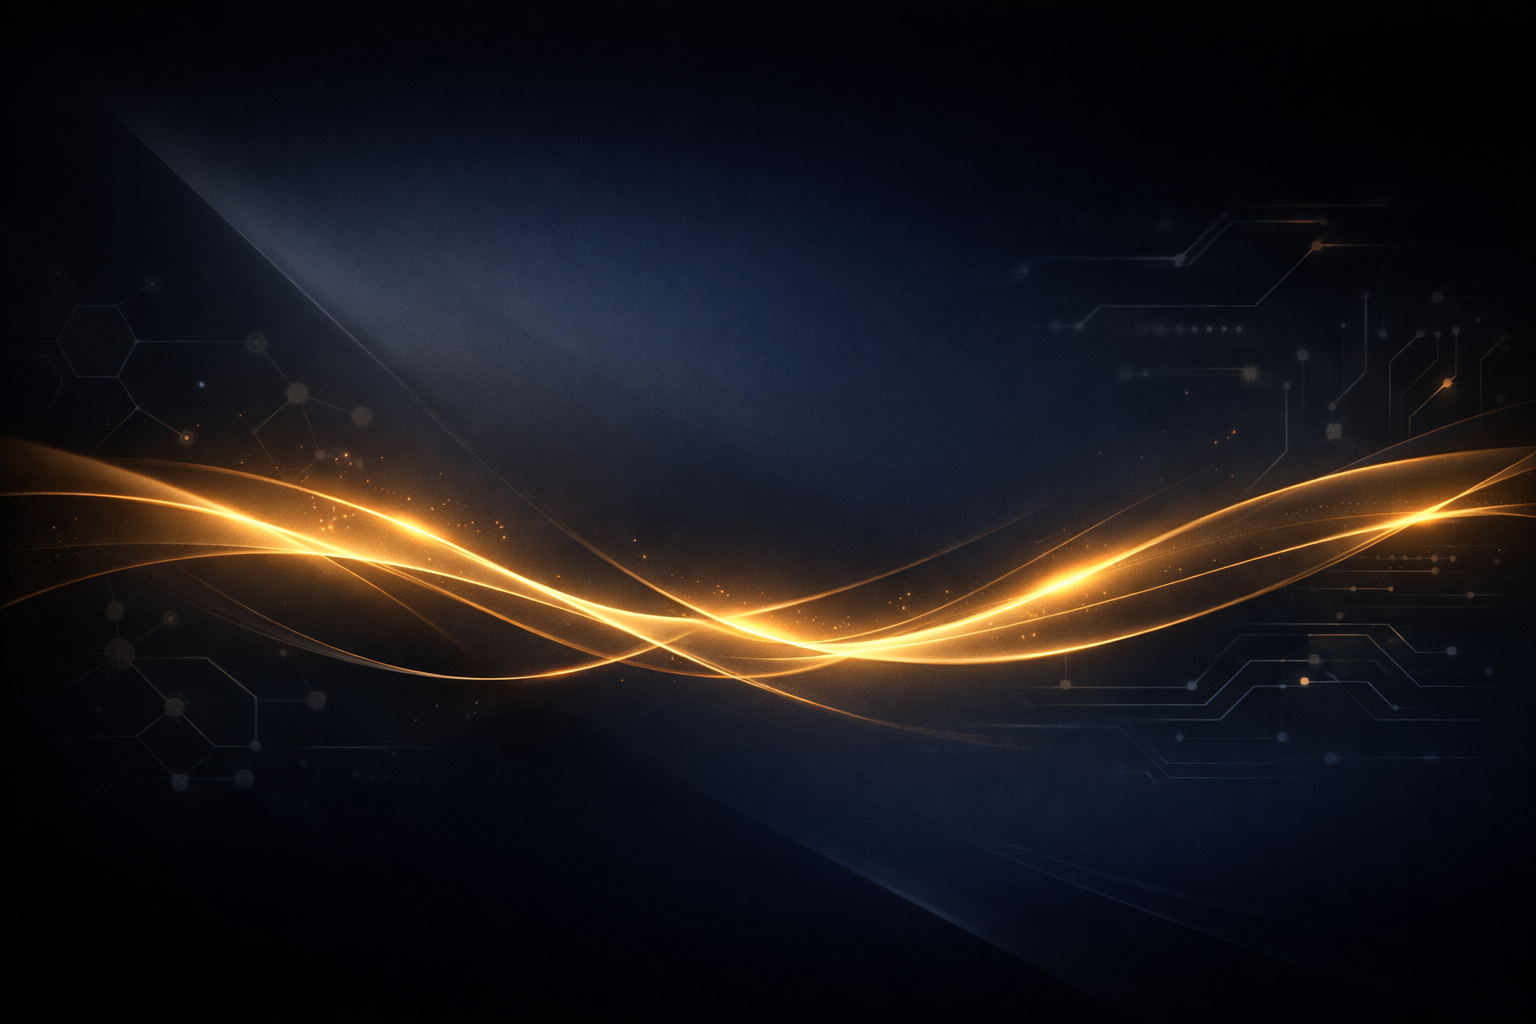
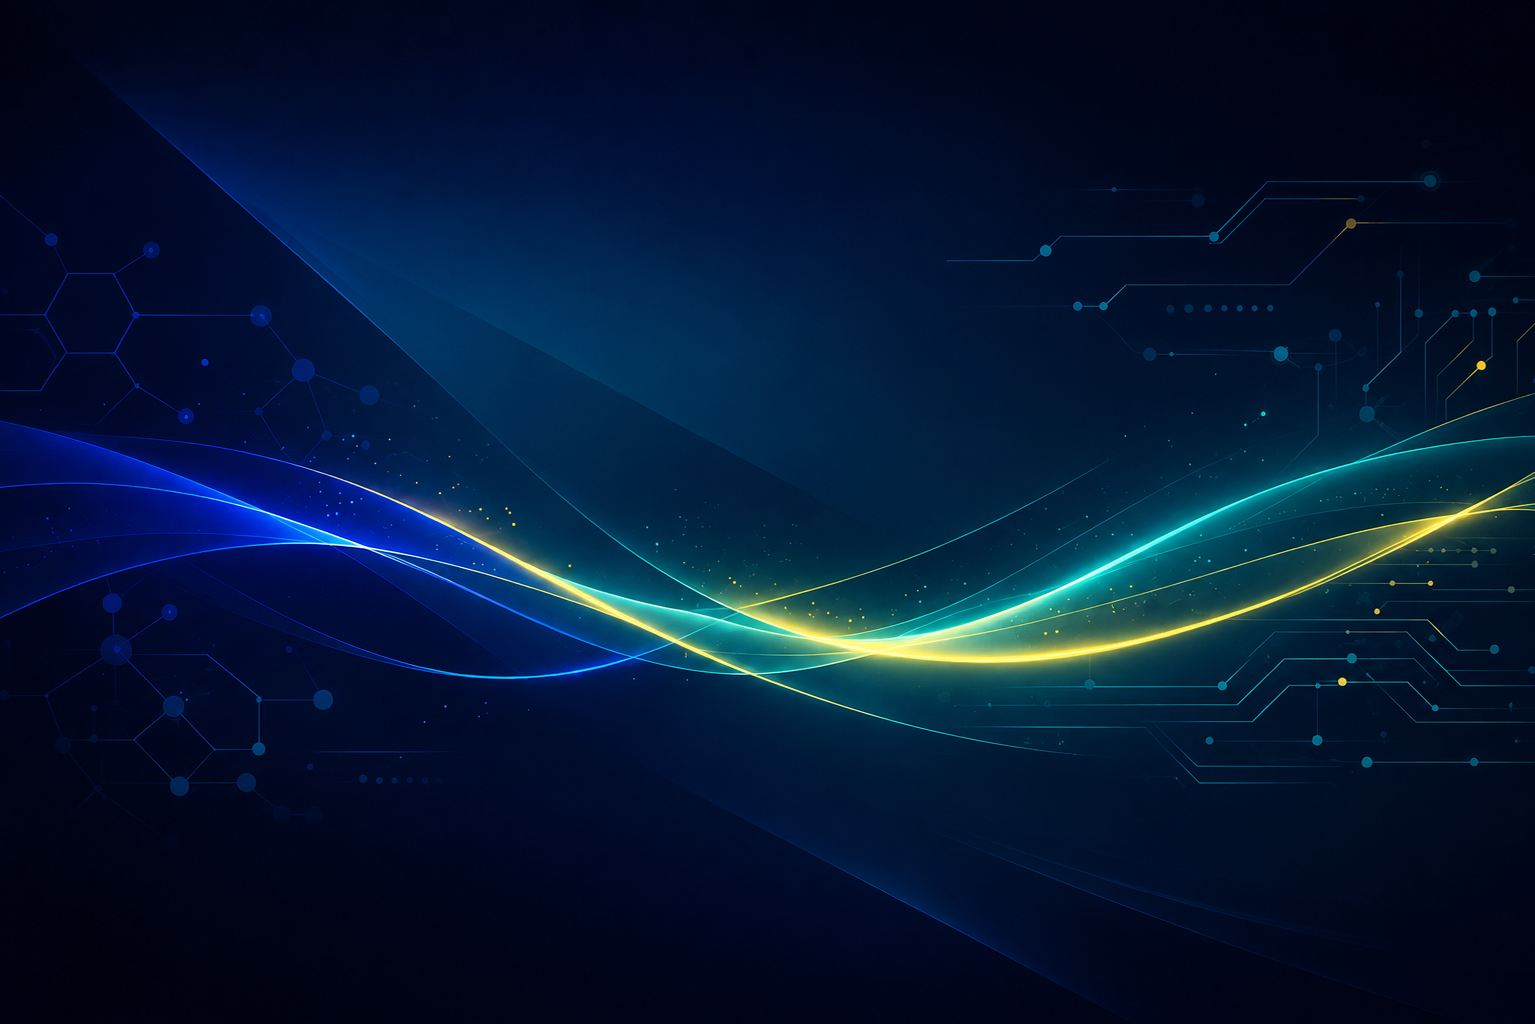
feat: Enhance font management and add type declarations
- Imported the Fraunces font alongside Inter for improved typography.
- Updated CSS variable declarations for font display and body to use the new font variables.
- Added a TypeScript declaration file for CSS modules to improve type safety.
- Included additional TypeScript definitions in tsconfig.json to support declaration files.

diff --git a/client/app/layout.tsx b/client/app/layout.tsx
@@ -1,5 +1,5 @@
 import type { Metadata } from "next";
-import { Inter } from "next/font/google";
+import { Fraunces, Inter } from "next/font/google";
 import localFont from "next/font/local";
 import "./globals.css";
 import AuthProviderWrapper from "@/providers/AuthProvider";
@@ -8,7 +8,15 @@ import { Toaster } from "react-hot-toast";
 import ConditionalNavbar from "@/components/ConditionalNavbar";
 import SupportFloatingButtons from "@/components/SupportFloatingButtons";
 
-const inter = Inter({ subsets: ["latin"] });
+const inter = Inter({
+  subsets: ["latin"],
+  variable: "--font-inter",
+});
+
+const fraunces = Fraunces({
+  subsets: ["latin"],
+  variable: "--font-fraunces",
+});
 
 const customFont = localFont({
   src: [
@@ -169,7 +177,7 @@ export default function RootLayout({
   return (
     <html lang="en">
       <body
-        className={`${inter.className} ${customFont.variable} ${font4.variable} antialiased`}
+        className={`${inter.className} ${inter.variable} ${fraunces.variable} ${customFont.variable} ${font4.variable} antialiased`}
       >
         <AuthProviderWrapper>
           <ConfirmProvider>

diff --git a/client/app/login/page.tsx b/client/app/login/page.tsx
@@ -91,10 +91,9 @@ function LoginContent() {
   return (
     <div className="min-h-screen grid grid-cols-1 md:grid-cols-[1.1fr_1fr] font-[var(--font-body)]">
       <style jsx global>{`
-        @import url("https://fonts.googleapis.com/css2?family=Fraunces:opsz,wght@9..144,400;9..144,500;9..144,600&family=Inter:wght@400;500;600;700&display=swap");
         :root {
-          --font-display: "Fraunces", serif;
-          --font-body: "Inter", sans-serif;
+          --font-display: var(--font-fraunces), serif;
+          --font-body: var(--font-inter), sans-serif;
         }
         @keyframes drawLine {
           from {

diff --git a/client/app/signup/page.tsx b/client/app/signup/page.tsx
@@ -181,10 +181,9 @@ function SignupContent() {
   return (
     <div className="min-h-screen grid grid-cols-1 md:grid-cols-[1fr_1.5fr] font-[var(--font-body)]">
       <style jsx global>{`
-        @import url('https://fonts.googleapis.com/css2?family=Fraunces:opsz,wght@9..144,400;9..144,500;9..144,600&family=Inter:wght@400;500;600;700&display=swap');
         :root {
-          --font-display: 'Fraunces', serif;
-          --font-body: 'Inter', sans-serif;
+          --font-display: var(--font-fraunces), serif;
+          --font-body: var(--font-inter), sans-serif;
         }
         @keyframes drawLine {
           from {

diff --git a/client/types/css.d.ts b/client/types/css.d.ts
@@ -1,0 +1,4 @@
+declare module "*.css" {
+  const content: { readonly [className: string]: string };
+  export default content;
+}